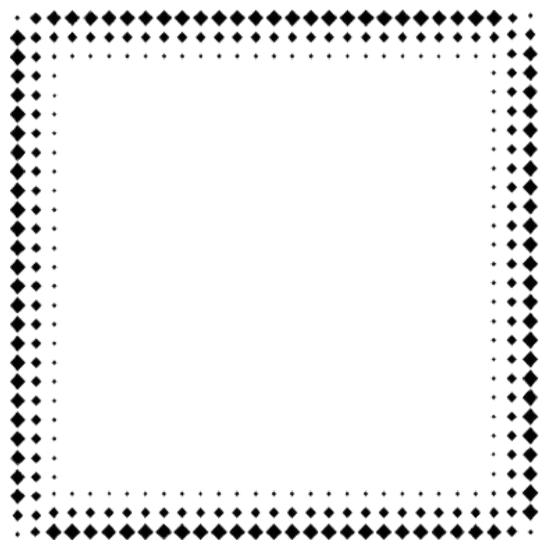
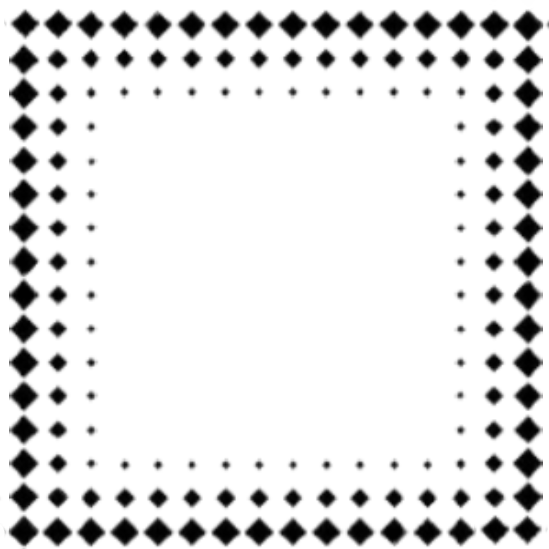
,

diff --git a/js.js b/js.js
@@ -250,11 +250,20 @@ function checkForErrors() {
   hasErrors = checkColumnDuplicates() || hasErrors;
   hasErrors = checkGroupDuplicates() || hasErrors;
   hasErrors = checkEmptyCells() || hasErrors;
+  checkSureNumbers();
 
   if (!hasErrors) {
       clearErrors();
   }
 }
+
+function checkSureNumbers() {
+  let cells = document.getElementsByClassName("initial"); 
+  for (let i = 0; i < cells.length; i++) { 
+    cells[i].classList.add("backgroundFijo");
+  }
+}
+
 
 function checkRowDuplicates() {
   let rowIds = {};
@@ -829,6 +838,11 @@ function botonLimpiar() {
           cell.classList.remove("checkError", "checkEmpty");
       });
       cajaErrores.style.display = "none";
+
+      let cells = document.getElementsByClassName("initial"); 
+      for (let i = 0; i < cells.length; i++) { 
+        cells[i].classList.remove("backgroundFijo");
+      }
   }, 1000);
 
   setTimeout(function () {

diff --git a/css.css b/css.css
@@ -117,7 +117,6 @@ h1{
 .hover-column {
   background-color: #c7ba7165;
   border-bottom: solid #AC9A63 2px;
-  
 }
 
 .hover-border-replace {
@@ -526,4 +525,10 @@ h1{
 
 .grupoSeleccionado {
   background-color: #c7ba7165;
+}
+
+.backgroundFijo{
+  background-image: url("img/marco.png");
+  background-position: 82.75px 78px;
+  background-size: 85px 80px;
 }
